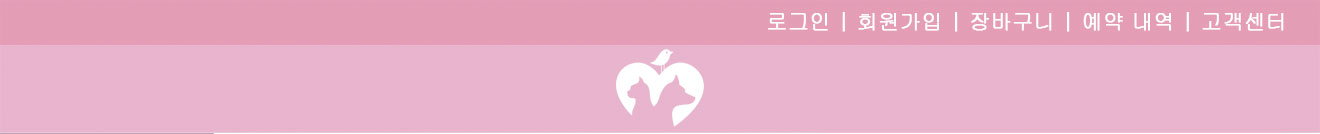
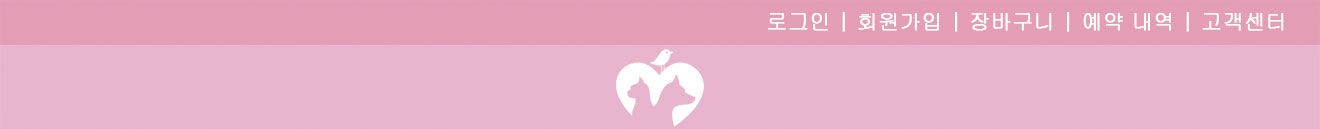
Add files via upload

diff --git a/index.html b/index.html
@@ -1,25 +1,25 @@
 <html>
 <head>
-<title>uxui-틀_홈페이지</title>
+<title>index</title>
 <meta http-equiv="Content-Type" content="text/html; charset=utf-8">
 </head>
 <body bgcolor="#FFFFFF" leftmargin="0" topmargin="0" marginwidth="0" marginheight="0">
-<!-- Save for Web Slices (uxui-틀_홈페이지.png) -->
+<!-- Save for Web Slices (index.png) -->
 <table id="__01" width="1320" height="1174" border="0" cellpadding="0" cellspacing="0">
 	<tr>
 		<td colspan="2">
-			<img src="images/index_01.jpg" width="1320" height="134" alt=""></td>
+			<img src="images/index_01.jpg" width="1320" height="129" alt=""></td>
 	</tr>
 	<tr>
 		<td>
 			<a href="https://parkjuhyun-624.github.io/kitty_0624/">
-				<img src="images/uxui-index_02.jpg" width="213" height="82" border="0" alt=""></a></td>
+				<img src="images/index_02.jpg" width="214" height="89" border="0" alt=""></a></td>
 		<td rowspan="2">
-			<img src="images/index_03.jpg" width="1107" height="1040" alt=""></td>
+			<img src="images/index_03.jpg" width="1106" height="1045" alt=""></td>
 	</tr>
 	<tr>
 		<td>
-			<img src="images/index_04.jpg" width="213" height="958" alt=""></td>
+			<img src="images/index_04.jpg" width="214" height="956" alt=""></td>
 	</tr>
 </table>
 <!-- End Save for Web Slices -->
